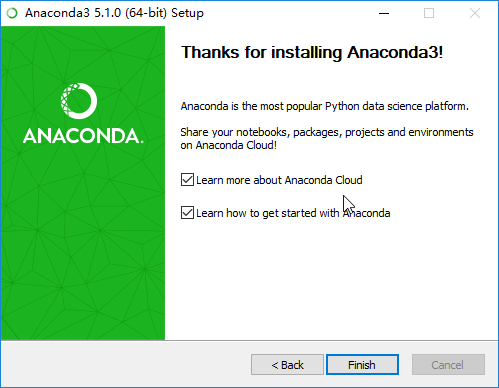
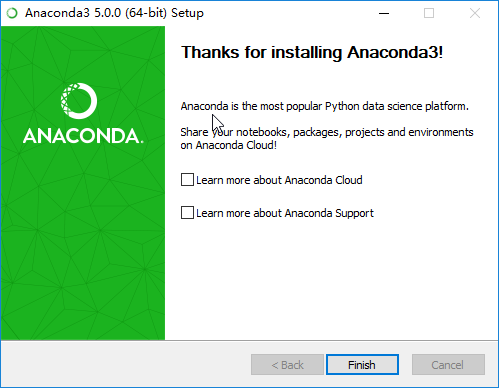
调整文档

diff --git a/iclientpy/doc/source/geticlientpy.rst b/iclientpy/doc/source/geticlientpy.rst
@@ -3,15 +3,25 @@
 
 iClientPy正在开发中，如果你有意试用，可以通过两个途径获取：
 
-    * 检出源代码本地安装： **需要确保本地的python环境为3.6.x**
+    * 从Anaconda安装
 
-        1. 从https://github.com/SuperMap/iclient-python下载代码或者复制git地址，通过git客户端复制代码到本地
-        2. 打开命令行，进入到代码文件夹内
-        3. 执行命令pip install -r requirements.txt安装依赖
-        4. 执行命令python setup.py install进行安装
-        5. 执行命令pip list，检查iclientpy是否已经安装
-        6. 执行命令jupyter nbextension install --py --symlink --sys-prefix iclientpy为jupyter安装扩展
-        7. 执行命令jupyter nbextension enable --py --sys-prefix iclientpy启动扩展
+        1. 如果没有Anaconda环境，参考  :ref:`iClientPy从零开始` 进行安装，已经存在Anaconda环境，跳过该步骤
+        2. 配置清华源（也可是国内其他镜像源）以及第三方库的依赖源
+
+            ::
+
+                conda config --add channels https://mirrors.tuna.tsinghua.edu.cn/anaconda/pkgs/free/
+                conda config --add channels https://mirrors.tuna.tsinghua.edu.cn/anaconda/pkgs/main/
+                conda config --add channels https://mirrors.tuna.tsinghua.edu.cn/anaconda/cloud/conda-forge/
+                conda config --set show_channel_urls yes
+
+        3. 执行命令：conda install -c http://iclientpy.supermap.io/conda/channel iclientpy （第一次安装耗时会比较久）
+        4. 执行命令在jupyter notebook中启用iclientpy
+
+            ::
+
+                jupyter nbextension install --py --symlink --sys-prefix iclientpy
+                jupyter nbextension enable --py --sys-prefix iclientpy
 
     * 从docker镜像启动
 

diff --git a/iclientpy/doc/source/installanacondaicpy.rst b/iclientpy/doc/source/installanacondaicpy.rst
@@ -1,7 +1,7 @@
-iClientPy初探
+iClientPy从零开始
 ===============================
 
-1. 从 `链接 <https://www.anaconda.com/download/#windows>`_ 下载Windows版本Anaconda安装包，选择Python 3.6版本
+1. 从 `链接 <https://mirrors.tuna.tsinghua.edu.cn/anaconda/archive/>`_ 下载Anaconda3安装包，建议使用最新的
 2. 双击安装包进入安装想到进行安装
 
     .. image:: _static/anaconda_init.png
@@ -19,7 +19,11 @@ iClientPy初探
 
     .. image:: _static/anaconda_path.png
 
-7. 选择是否将Anaconda加入PATH环境变量中，将Anaconda加入环境变量，可以方便的在命令行里面直接使用Anaconda所包含命令，否则，需要从开始菜单中Anaconda Prompt中进入命令行才能使用Anaconda包含命令
+7. 选择是否将Anaconda加入PATH环境变量中，可参考如下方式进行选择：
+
+        * 打开cmd窗口，执行命令 python -V
+        * 如能正常输出python版本信息，则不建议加入环境变量，否则建议加入环境变量
+
 8. 选择是否将Anaconda注册为默认的python环境
 9. 点击Install
 
@@ -30,11 +34,11 @@ iClientPy初探
 
     .. image:: _static/anaconda_vscode.png
 
-12. 根据需要，选择是否学习Anaconda，点击finish
+12. 将所有复选框勾选去掉，点击finish
 
     .. image:: _static/anaconda_finish.png
 
-13. 根据第7步的选择，打开cmd或者Anaconda Prompt，执行命令conda -V python -V，检查是否安装成功
+13. 根据第7步的选择，打开cmd或者Anaconda Prompt，执行命令conda -V 和 python -V，检查是否安装成功
 14. 配置清华源以及第三库依赖源：在上一步打开窗口中执行：
 
     ::
